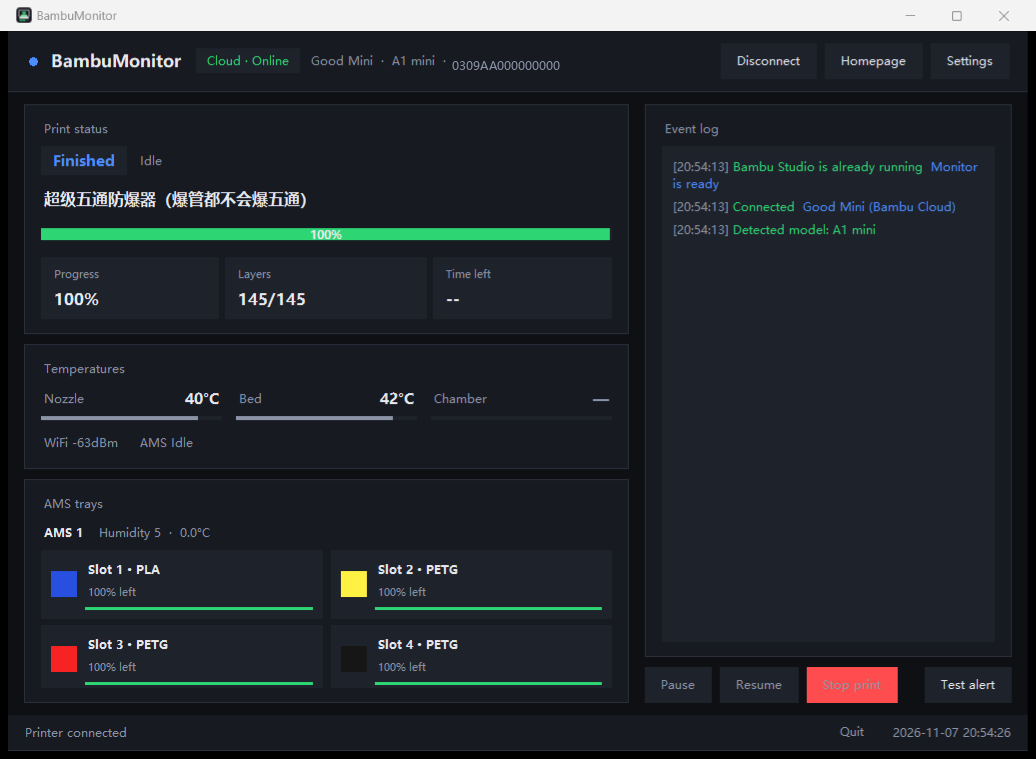
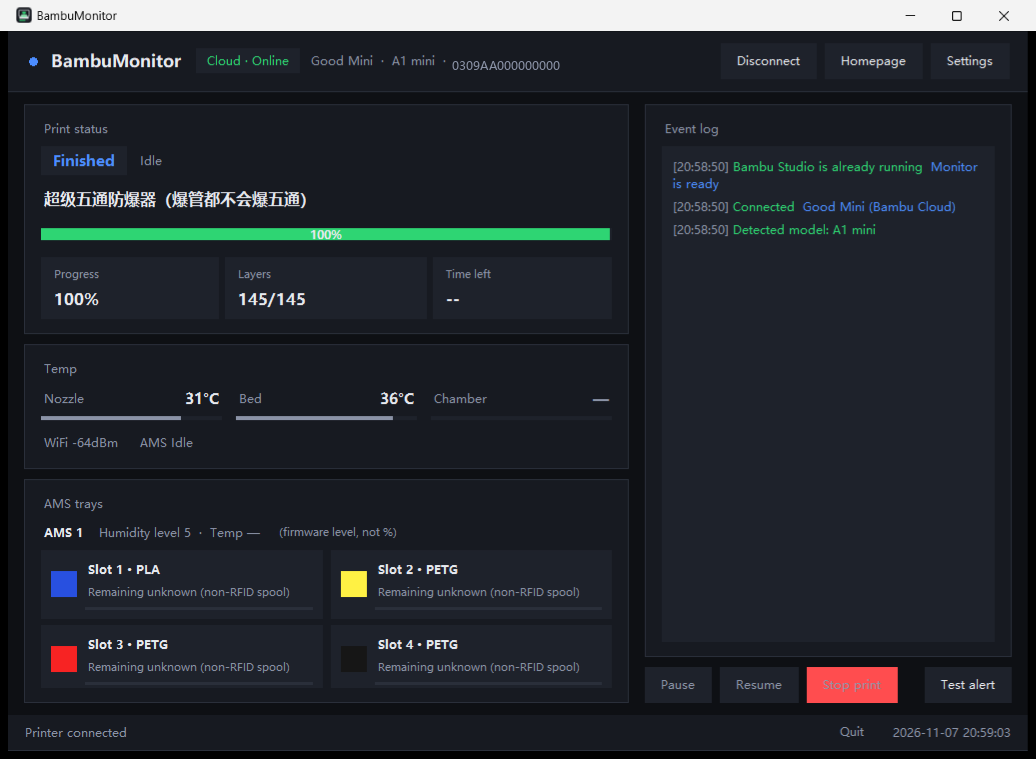
feat: AMS 数据诚实化 + README 增加「已知限制 & 待办」
- 湿度：固件给的是 1–5 档位而非百分比，界面明确标注「湿度档位 N」，不再假装是湿度值
- 温度：AMS Lite / A1 mini 不上报温度，显示「—」而不是 0.0°C
- 余料：非 RFID 卷固件恒报 100%，现在显示「余量未知（非 RFID 卷）」且不画余量条
- README（中英）：新增「已知限制 & 待办（欢迎 PR）」章节，列清 AMS 三项、
  多打印机、摄像头、通知点击、历史统计等未完成项与参与方式
- 两版界面截图同步更新

diff --git a/bambu_monitor/ui.py b/bambu_monitor/ui.py
@@ -1664,9 +1664,19 @@ class App:
             head.pack(fill="x", pady=(0, 6))
             tk.Label(head, text=f"AMS {int(unit.get('id', 0)) + 1}", bg=PANEL, fg=TEXT,
                      font=(self.ui_font, 9, "bold")).pack(side="left")
-            tk.Label(head, text=tf("湿度 {humidity}  ·  温度 {temp}°C",
-                     humidity=unit.get("humidity", "--"), temp=unit.get("temp", "--")),
+            # 湿度：固件给的是 1~5 档位，不是百分比；温度：A1 mini / AMS Lite 不上报
+            hum_raw = str(unit.get("humidity") or "").strip()
+            hum_text = (t("湿度档位 {n}").format(n=hum_raw)
+                        if hum_raw.isdigit() and hum_raw != "0" else t("湿度 —"))
+            try:
+                temp_val = float(unit.get("temp"))
+            except (TypeError, ValueError):
+                temp_val = 0.0
+            temp_text = f"{temp_val:.0f}°C" if temp_val > 0 else "—"
+            tk.Label(head, text=f"{hum_text}  ·  {t('温度')} {temp_text}",
                      bg=PANEL, fg=MUTED, font=(self.ui_font, 9)).pack(side="left", padx=10)
+            tk.Label(head, text=t("（湿度为固件档位，非百分比）"), bg=PANEL, fg=MUTED,
+                     font=(self.ui_font, 8)).pack(side="left")
 
             grid = tk.Frame(self.ams_frame, bg=PANEL)
             grid.pack(fill="x")
@@ -1703,13 +1713,21 @@ class App:
                  font=(self.ui_font, 9, "bold" if used else "normal"), anchor="w").pack(
             fill="x", padx=(0, 10))
         remain = tray.get("remain")
-        remain_text = tf("剩余 {n}%", n=remain) if isinstance(remain, int) and remain >= 0 else "余量未知"
+        # 非 RFID 卷（tray_uuid 全 0）固件会一直报 100%，不能当真
+        uuid = str(tray.get("tray_uuid") or "")
+        has_rfid = uuid.strip("0") != "" and len(uuid) >= 16
+        if isinstance(remain, int) and remain >= 0 and has_rfid:
+            remain_text = tf("剩余 {n}%", n=remain)
+        elif used and not has_rfid:
+            remain_text = t("余量未知（非 RFID 卷）")
+        else:
+            remain_text = t("余量未知")
         tk.Label(info, text=remain_text, bg=PANEL2, fg=MUTED,
                  font=(self.ui_font, 8), anchor="w").pack(fill="x", padx=(0, 10))
         bar = tk.Canvas(info, height=5, bg=PANEL2, highlightthickness=0)
         bar.pack(fill="x", padx=(0, 10), pady=(3, 0))
 
-        def draw(_evt=None, canvas=bar, val=remain):
+        def draw(_evt=None, canvas=bar, val=(remain if (isinstance(remain, int) and remain >= 0 and has_rfid) else 0)):
             canvas.delete("all")
             w = max(10, canvas.winfo_width())
             canvas.create_rectangle(0, 1, w, 4, fill=LINE, outline="")

diff --git a/bambu_monitor/i18n.py b/bambu_monitor/i18n.py
@@ -577,3 +577,15 @@ EN.update({
     "已在浏览器打开项目主页": "Opened the project page in your browser",
     "打不开浏览器，请手动访问项目主页": "Could not open a browser — please visit the project page manually",
 })
+
+
+EN.update({
+    "湿度档位 {n}": "Humidity level {n}",
+    "湿度 —": "Humidity —",
+    "湿度 {humidity}  ·  温度 {temp}°C": "Humidity {humidity}  ·  {temp}°C",
+    "（湿度为固件档位，非百分比）": " (firmware level, not %)",
+    "温度": "Temp",
+    "剩余 {n}%": "{n}% left",
+    "余量未知": "Remaining unknown",
+    "余量未知（非 RFID 卷）": "Remaining unknown (non-RFID spool)",
+})

diff --git a/README.en.md b/README.en.md
@@ -41,7 +41,7 @@ And it stays out of your way: toasts go to the Action Center, and only important
 | | Feature | Notes |
 |---|---|---|
 | 📊 | **Live status** | Progress, layer, time left, elapsed, nozzle / bed / chamber temps, Wi-Fi signal |
-| 🎨 | **AMS trays** | Colour, material, remaining % and a little gauge per slot |
+| 🎨 | **AMS trays** | Colour and material per slot; remaining % is only reliable for RFID spools |
 | 🔔 | **Event alerts** | Finished / failed / paused / filament change / HMS error / offline — each toggleable |
 | 🔊 | **Three channels** | Windows toast (Action Center) + topmost popup + synthesised chime |
 | 🏷 | **Model detection** | A1 mini / A1 / P1P / P1S / P2S / X1 / X1 Carbon / X1E / H2D series |
@@ -308,6 +308,37 @@ BambuMonitor/
 - **Cloud**: official APIs `api.bambulab.cn` / `api.bambulab.com` (auto-selected by region), cloud MQTT `cn.mqtt.bambulab.com:8883`, username `u_<uid>`, password `accessToken`
 
 ---
+
+## 🚧 Known limitations & roadmap (PRs welcome)
+
+This is a personal side project — several things are only "good enough to look at", not solid.
+**Listed honestly here** so nobody is misled:
+
+| Area | Current state | Notes / what we'd like to do |
+|---|---|---|
+| **AMS humidity** | Only the firmware's **1–5 level** | The printer reports a dryness *level*, **not a relative humidity %**. The UI labels it as a level. Converting to RH% would need a calibration curve — data welcome |
+| **AMS temperature** | A1 mini / AMS Lite **don't report it**, shows `—` | Models with a sensor (X1 / H2 series) display it normally |
+| **AMS remaining** | Raw firmware `remain` field | **Non-RFID spools always report 100%** and are useless; the UI now says "remaining unknown (non-RFID spool)". Could be estimated from actual filament length/weight |
+| Multiple printers | One at a time | Device list + switching |
+| Camera | Not supported | LAN mode could pull snapshots on port 6000 |
+| Clickable toasts | Clicking a toast doesn't open the panel | Needs a registered custom URL protocol |
+| History / stats | None | Print log, filament consumption, CSV export |
+| More languages | Chinese + English only | Just add a dictionary in `i18n.py` |
+| Single-file exe | Fails to build on machines with a restricted `%TEMP%` | Use the folder build instead |
+
+### How to contribute
+
+| Task | Where |
+|---|---|
+| Add a printer model | `bambu_monitor/models.py` — add `"code": "Name"` (code comes from `project_name` in `info.get_version`) |
+| Add a language | `bambu_monitor/i18n.py` — the `EN` dict, keys are the Chinese source strings |
+| Add an alert event | `bambu_monitor/state.py` — `Watcher.feed()` |
+| Improve AMS display | `bambu_monitor/ui.py` — `_paint_ams()` / `_ams_card()` |
+
+When filing an issue please include the **printer model + firmware version**, and ideally a status payload
+(`python main.py --diagnose`, or a captured `device/<SN>/report` message).
+
+Even a typo fix is a welcome PR.
 
 ## ⚠ Disclaimer
 

diff --git a/README.md b/README.md
@@ -41,7 +41,7 @@
 | | 能力 | 说明 |
 |---|---|---|
 | 📊 | **实时状态** | 进度、层数、剩余时间、已用时间、喷嘴 / 热床 / 腔体温度、WiFi 信号 |
-| 🎨 | **AMS 料盘** | 每个槽位的颜色、材料、余量百分比与余量条 |
+| 🎨 | **AMS 料盘** | 每个槽位的颜色、材料；余量仅对 RFID 卷可信（见文末说明） |
 | 🔔 | **事件通知** | 完成 / 失败 / 暂停 / 换料 / 故障 / 失联，逐项可开关 |
 | 🔊 | **三种提醒** | 系统通知（进通知中心）+ 置顶弹窗 + 自合成提示音 |
 | 🏷 | **自动识别机型** | A1 mini / A1 / P1P / P1S / P2S / X1 / X1 Carbon / X1E / H2D 系列 |
@@ -311,6 +311,35 @@ BambuMonitor/
 - **云端**：官方接口 `api.bambulab.cn` / `api.bambulab.com`（按区域自动选择），云 MQTT `cn.mqtt.bambulab.com:8883`，用户名 `u_<uid>`、密码 `accessToken`
 
 ---
+
+## 🚧 已知限制 & 待办（欢迎 PR）
+
+这是个 Personal 小工具，有些地方只做到"能看"，没做扎实。**如实写在这里**，免得误导：
+
+| 项目 | 现状 | 说明 / 想做的方向 |
+|---|---|---|
+| **AMS 湿度** | 只显示固件给的 **1–5 档位** | 固件报的是干燥度档位，**不是相对湿度百分比**，界面上已标注"档位"。想换算成 RH% 需要标定曲线，欢迎提供数据 |
+| **AMS 温度** | A1 mini / AMS Lite **不上报**，显示 `—` | 带温度传感器的机型（X1 / H2 系列）能正常显示 |
+| **AMS 余料** | 直接用固件 `remain` 字段 | **非 RFID 卷固件恒报 100%**，完全不可信；程序现在会标「余料未知（非 RFID 卷）」。想按实际耗材长度/重量累计估算 |
+| 多打印机 | 一次只能监控一台 | 设备列表 + 切换 |
+| 摄像头 | 不支持 | 局域网模式可以接 6000 端口拿快照 |
+| 通知点击 | 点通知不会跳到面板 | 需要注册自定义 URL 协议 |
+| 历史统计 | 没有 | 打印记录、耗材消耗、导出 CSV |
+| 更多语言 | 只有中 / 英 | 在 `i18n.py` 里加字典即可 |
+| 单文件 exe | 部分机器 `%TEMP%` 受限会打包失败 | 用文件夹版即可 |
+
+### 怎么参与
+
+| 想做的事 | 改哪里 |
+|---|---|
+| 加机型 | `bambu_monitor/models.py`：加一条 `"代号": "名称"`（代号来自 `info.get_version` 的 `project_name`） |
+| 加语言 | `bambu_monitor/i18n.py`：`EN` 字典，键是中文原文 |
+| 加提醒事件 | `bambu_monitor/state.py`：`Watcher.feed()` |
+| 修 AMS 显示 | `bambu_monitor/ui.py`：`_paint_ams()` / `_ams_card()` |
+
+提 Issue 时请带上**机型 + 固件版本**，最好附一段状态报文（`python main.py --diagnose`，或抓一段 `device/<SN>/report`）。
+
+哪怕是改个错别字，也欢迎 PR。
 
 ## ⚠ 说明
 
